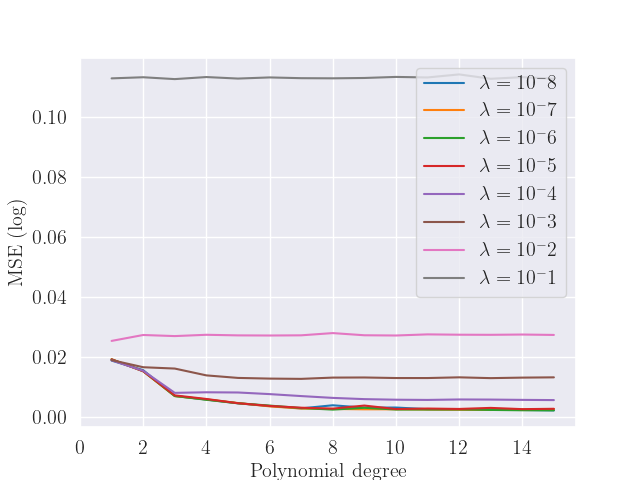
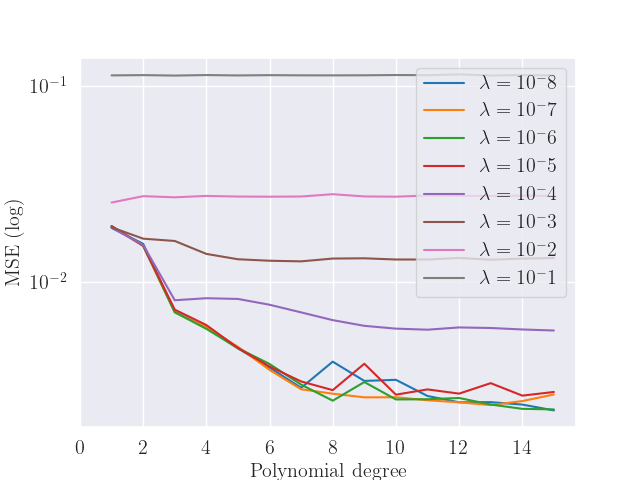
Fix plot scale

diff --git a/code/part_e.py b/code/part_e.py
@@ -723,21 +723,21 @@ if __name__ == '__main__':
         ax6.plot(degrees, error_test_real_cv_lasso[:, j], label=rf'$\lambda = 10^{j-8}$', color=colors_ridge[j])
     
     ax4.set_xlabel("Polynomial degree")
-    # ax4.set_yscale('log')
+    ax4.set_yscale('log')
     ax4.set_ylabel("MSE (log)")
     ax4.set_xticks(np.arange(0, max_degree+1, 2, dtype=np.int32))
     ax4.legend(loc='upper right')
     fig4.savefig("../LaTeX/Images/cv_lasso.png")
 
     ax5.set_xlabel("Polynomial degree")
-    # ax4.set_yscale('log')
+    ax5.set_yscale('log')
     ax5.set_ylabel("MSE (log)")
     ax5.set_xticks(np.arange(0, max_degree+1, 2, dtype=np.int32))
     ax5.legend(loc='upper right')
     fig5.savefig("../LaTeX/Images/cv_lasso_noise.png")
 
     ax6.set_xlabel("Polynomial degree")
-    # ax4.set_yscale('log')
+    ax6.set_yscale('log')
     ax6.set_ylabel("MSE (log)")
     ax6.set_xticks(np.arange(0, max_degree+1, 2, dtype=np.int32))
     ax6.legend(loc='upper right')
